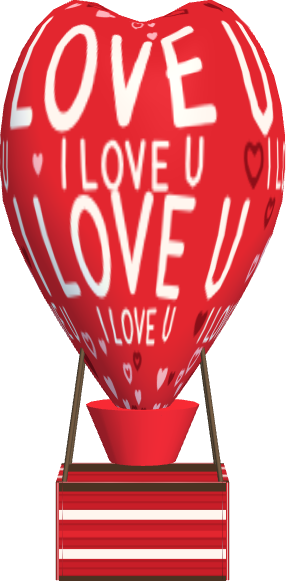
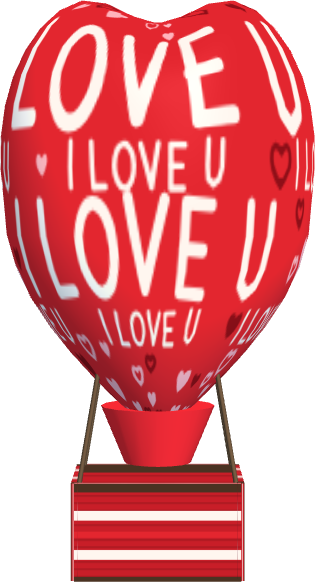
Heart balloon: wider, rounder middle
Claude-Session: https://claude.ai/code/session_01Qbw1KvHs2Rw8tGkzEo2hg4

diff --git a/games/shared/love-balloon.js b/games/shared/love-balloon.js
@@ -64,12 +64,16 @@ function paintLove(ctx, W, H, d, uv) {
 // the heart-shaped envelope for the flat picture (picker / hub sky), in the picker's 100 x 120 box with the mouth at (50, 90)
 const LOVE_ENV = "M50 10C44 -4 30 -9 20 -3 8 5 9 24 16 40 24 58 37 76 41 90H59C63 76 76 58 84 40 91 24 92 5 80 -3 70 -9 56 -4 50 10z";
 // A sphere (radii rx, ry, rz, centred) bent into a heart: two lobes with a dip on top, a body narrowing to the mouth.
+// how much narrower the lower half is at height ny (0 = the middle, -1 = the bottom); a round, wide middle (Golan 28.10)
+const LOVE_W = 1.1;   // the heart is a little wider all round than the other balloons (Golan 28.10: a bigger, rounder middle)
+function loveK(ny) { return 1 - 0.62 * (-ny) ** 2.2; }
 function loveBend(base, rx, ry, rz) {
   const p = base.slice();
   for (let i = 0; i < p.length; i += 3) {
     const nx = p[i] / rx, ny = p[i + 1] / ry;
     if (ny > 0) { p[i] *= 1 + 0.22 * ny; p[i + 1] -= ry * 0.22 * Math.exp(-((nx / 0.32) ** 2)) * ny ** 2; }
-    else { const k = 1 - 0.62 * (-ny) ** 1.2; p[i] *= k; p[i + 2] *= 0.55 + 0.45 * k; }
+    else { const k = loveK(ny); p[i] *= k; p[i + 2] *= 0.55 + 0.45 * k; }
+    p[i] *= LOVE_W; p[i + 2] *= LOVE_W;
   }
   return p;
 }
@@ -78,7 +82,7 @@ function loveBend(base, rx, ry, rz) {
 // of the radius (-1 = the bottom). The heart's lower half is narrower, so its ropes reach higher up (Golan 28.10).
 function loveUnder(fx, fz, heart) {
   if (!heart) return -Math.sqrt(Math.max(0, 1 - fx * fx - fz * fz));
-  const fits = (ny) => { const s = Math.sqrt(1 - ny * ny), k = 1 - 0.62 * (-ny) ** 1.2, kz = 0.55 + 0.45 * k; return (fx / (s * k)) ** 2 + (fz / (s * kz)) ** 2 <= 1; };
+  const fits = (ny) => { const s = Math.sqrt(1 - ny * ny), k = loveK(ny), kz = 0.55 + 0.45 * k; return (fx / (s * k * LOVE_W)) ** 2 + (fz / (s * kz * LOVE_W)) ** 2 <= 1; };
   let lo = -1, hi = 0;
   for (let i = 0; i < 30; i++) { const m = (lo + hi) / 2; if (fits(m)) hi = m; else lo = m; }
   return hi;
